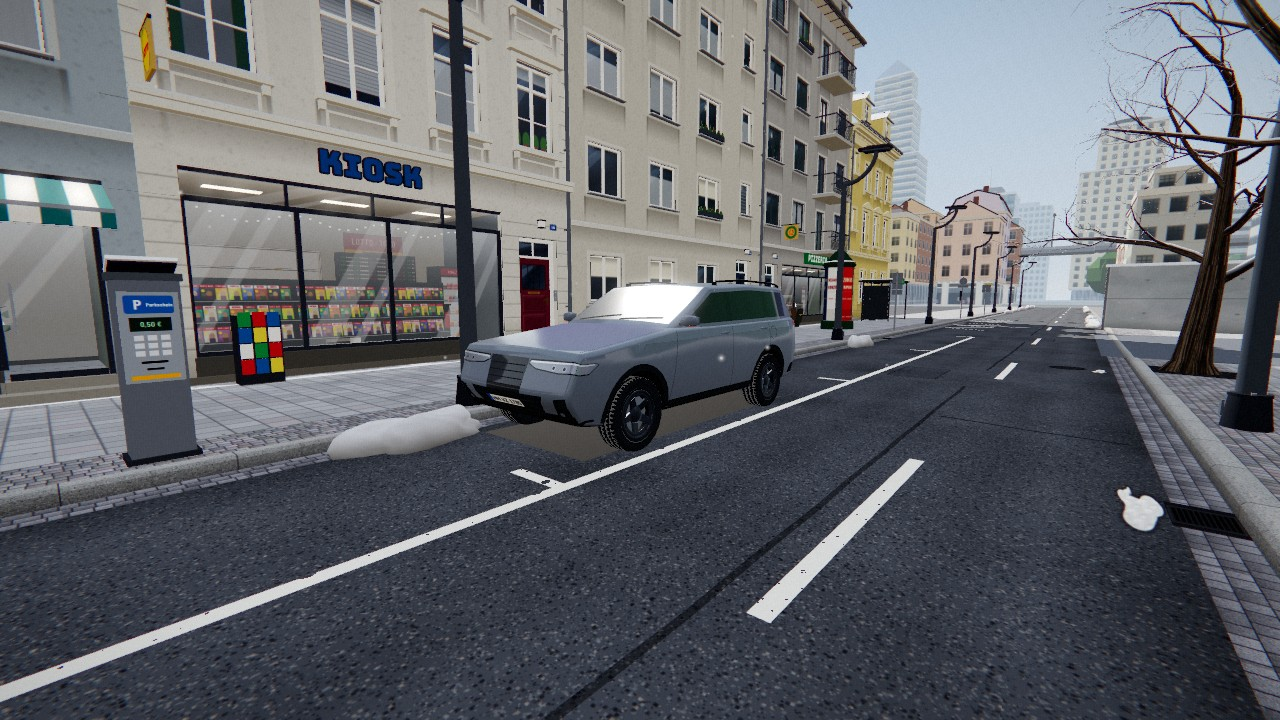
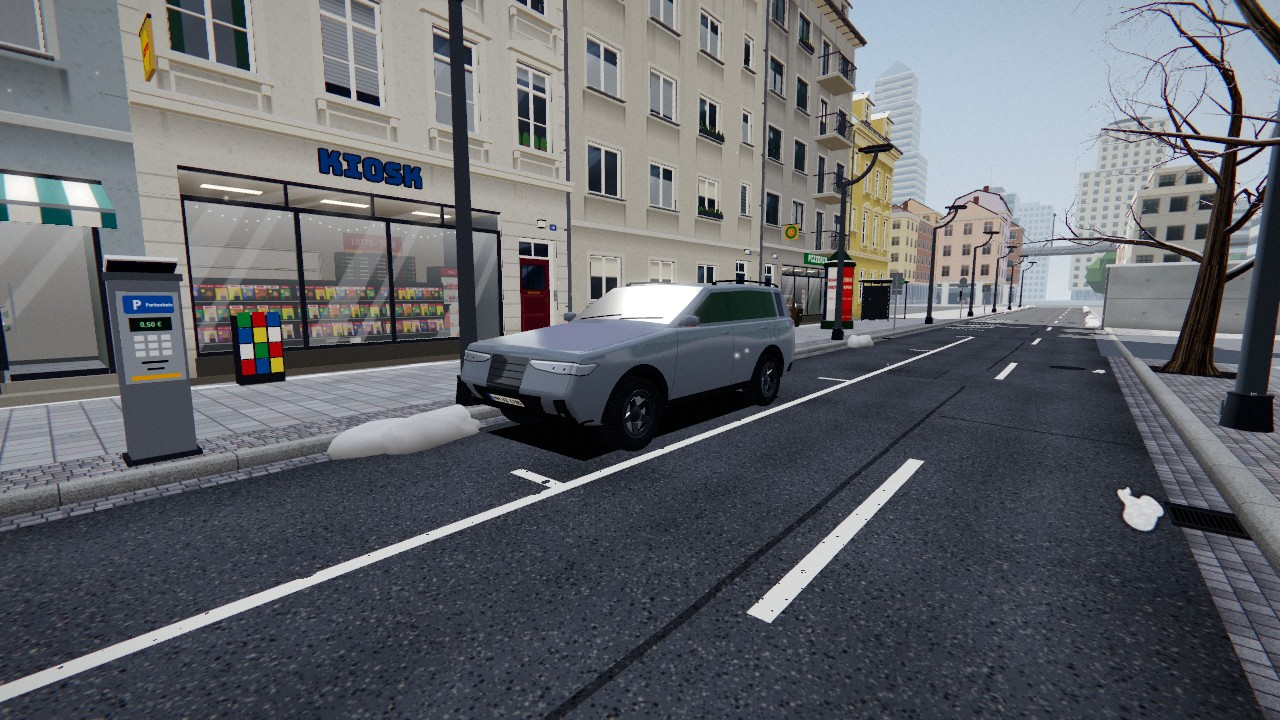
Autos: Ultra Low leichter (7 300 Dreiecke je Auto) und ohne Umgebungsbild (Lambert-Falschfarben), Bilder vorher/nachher Hoch und Ultra Low, Zaehlung
Claude-Session: https://claude.ai/code/session_01PQDC8tfWLcZb6ZgiZNKPky

Changed region(s): [[0.375, 0.4889, 0.5938, 0.6417], [0.4688, 0.5194, 0.5, 0.55]]

diff --git a/src/parts/04z-baukasten.js b/src/parts/04z-baukasten.js
@@ -1852,7 +1852,7 @@ function _akKlasse(){ const P=[], N=[], C=[], U=[];
 /* Stufe: fein (Niedrig..Hoch), fein2 (ab Maximum), einfach (Ultra Low), grob (Ferne) */
 function _akStufe(detail){ const D={
   grob:   {w:32,seg:9,bev:0,steps:1,fein:0,rad:10,details:0},
-  einfach:{w:18,seg:0.2,bev:2,steps:4,fein:0.25,rad:16,details:1},
+  einfach:{w:20,seg:0.22,bev:2,steps:3,fein:0.3,rad:12,details:1},
   fein:   {w:12,seg:0.12,bev:3,steps:4,fein:0.11,rad:20,details:2},
   fein2:  {w:7,seg:0.07,bev:5,steps:10,fein:0.07,rad:32,details:2}}; return D[detail]; }
 /* ---------- Karosserie: Profile und Verformung ---------- */
@@ -2050,7 +2050,9 @@ function _akBau(form,detail){
   const scheibe=(x,y,o)=>{ const R=RC.vorn(y); return defC(x,y,R?R.z:zD(F.dW),o); };
   const dachC=(x,z,o)=>{ const t=RC.oben(z); return defC(x,t===null?F.H:t,z,o); };
   const AUS=sg=>[sg,0,0], VOR=[0,0,1], RUE=[0,0,-1], HOCH=[0,1,0];
-  const fl=(kl,poly,map,off,hint,f,maxL)=>_akFlaeche(T[kl],poly,map,off,hint,f,maxL), band=(kl,pts,b,map,off,hint,f,maxL)=>_akFlaeche(T[kl],pts,map,off,hint,f,maxL||0.08,b);
+  /* einfache Stufe (Ultra Low): Auflagen grober teilen */
+  const gL=m=>D<2?Math.max(m||0.06,0.1):m;
+  const fl=(kl,poly,map,off,hint,f,maxL)=>_akFlaeche(T[kl],poly,map,off,hint,f,gL(maxL)), band=(kl,pts,b,map,off,hint,f,maxL)=>_akFlaeche(T[kl],pts,map,off,hint,f,gL(maxL||0.08),b);
   const fs=D>=2?0.04:0.08;
   /* --- Seitenfenster: Ausschnitt der Kabinenkontur, Rahmen und B-Saeule Klavierlack, Scheiben eingesetzt --- */
   const dlo=(()=>{ let P=_akInnen(K.KC,0.072); const zA=zD(F.dW), zE=-L2, gA=F.gurt[0]+0.028, gE=F.gurt[1]+0.028, s=(gE-gA)/(zE-zA);
@@ -2192,9 +2194,9 @@ function _akAufM(map,a,b,off,hint,sg){ const o=[0,0,0,0,0,0]; _akAuf(map,a,b,off
 const _AK_FELGE=[{n:5,w:0.05},{n:10,w:0.022},{n:6,w:0.034},{n:7,w:0.03},{n:5,w:0.07}];
 function _akRaeder(T,F,K,St,form){
   const R=F.r, w=F.rb, rr=F.zoll*0.0127, sh=R-rr, seg=St.rad, s2=Math.max(10,Math.round(seg*0.6)), aF=0.41*w, rO=rr-0.02;
-  const fl=[[rr+0.004,0.42],[rr+0.3*sh,0.475],[rr+0.55*sh,0.5],[rr+0.75*sh,0.497],[R-0.016,0.48],[R-0.006,0.455],[R-0.0015,0.42],[R,0.375]];
+  const fl=St.details>=2?[[rr+0.004,0.42],[rr+0.3*sh,0.475],[rr+0.55*sh,0.5],[rr+0.75*sh,0.497],[R-0.016,0.48],[R-0.006,0.455],[R-0.0015,0.42],[R,0.375]]:[[rr+0.004,0.42],[rr+0.5*sh,0.5],[R-0.012,0.47],[R,0.375]];
   const prof=fl.map(p=>[p[0],-p[1]*w]).concat(fl.slice().reverse().map(p=>[p[0],p[1]*w]));
-  const reifen=_akDreh(prof,seg,(j)=>j<=6?0.25*j/6:j===7?0.3:j===8?0.7:0.75+0.25*(j-9)/6);
+  const nf=fl.length, reifen=_akDreh(prof,seg,(j)=>j<nf-1?0.25*j/(nf-2):j===nf-1?0.3:j===nf?0.7:0.75+0.25*(j-nf-1)/(nf-2));
   const teile=[];   /* [geo, klasse, farbe, dreht] */
   teile.push([reifen,'dunkel','gummischwarz',true]);
   const fi=[...form].reduce((s,c)=>s+c.charCodeAt(0),0)%_AK_FELGE.length, stil=_AK_FELGE[fi];

diff --git a/src/parts/01b-material.js b/src/parts/01b-material.js
@@ -231,8 +231,9 @@ const MAT=(function(){
     for(const k in R) if(!NICHT_OPT[k]) o[k]=R[k];
     if(R.tex) o.map=texGet(R.tex);
     /* env = Umgebungsbild aus TEXTUR (Spiegelung), bump = Reliefkarte aus TEXTUR (Autos 17.10.) */
-    if(R.env){ try{ o.envMap=texGet(R.env); }catch(e){} }
-    if(R.bump) o.bumpMap=texGet(R.bump);
+    /* Ultra Low (Lambert): ohne Umgebung und Relief - ein vorgefiltertes Umgebungsbild (PMREM) gibt dort Falschfarben */
+    if(R.env&&!stufe().lambert){ try{ o.envMap=texGet(R.env); }catch(e){} }
+    if(R.bump&&!stufe().lambert) o.bumpMap=texGet(R.bump);
     /* physical: Klarlack (phys) nur ab Niedrig - Ultra Low tauscht Standard gegen Lambert (reuse-helpers) */
     const P=R.physical&&!stufe().lambert&&THREE.MeshPhysicalMaterial;
     if(P&&R.phys) Object.assign(o,R.phys);
